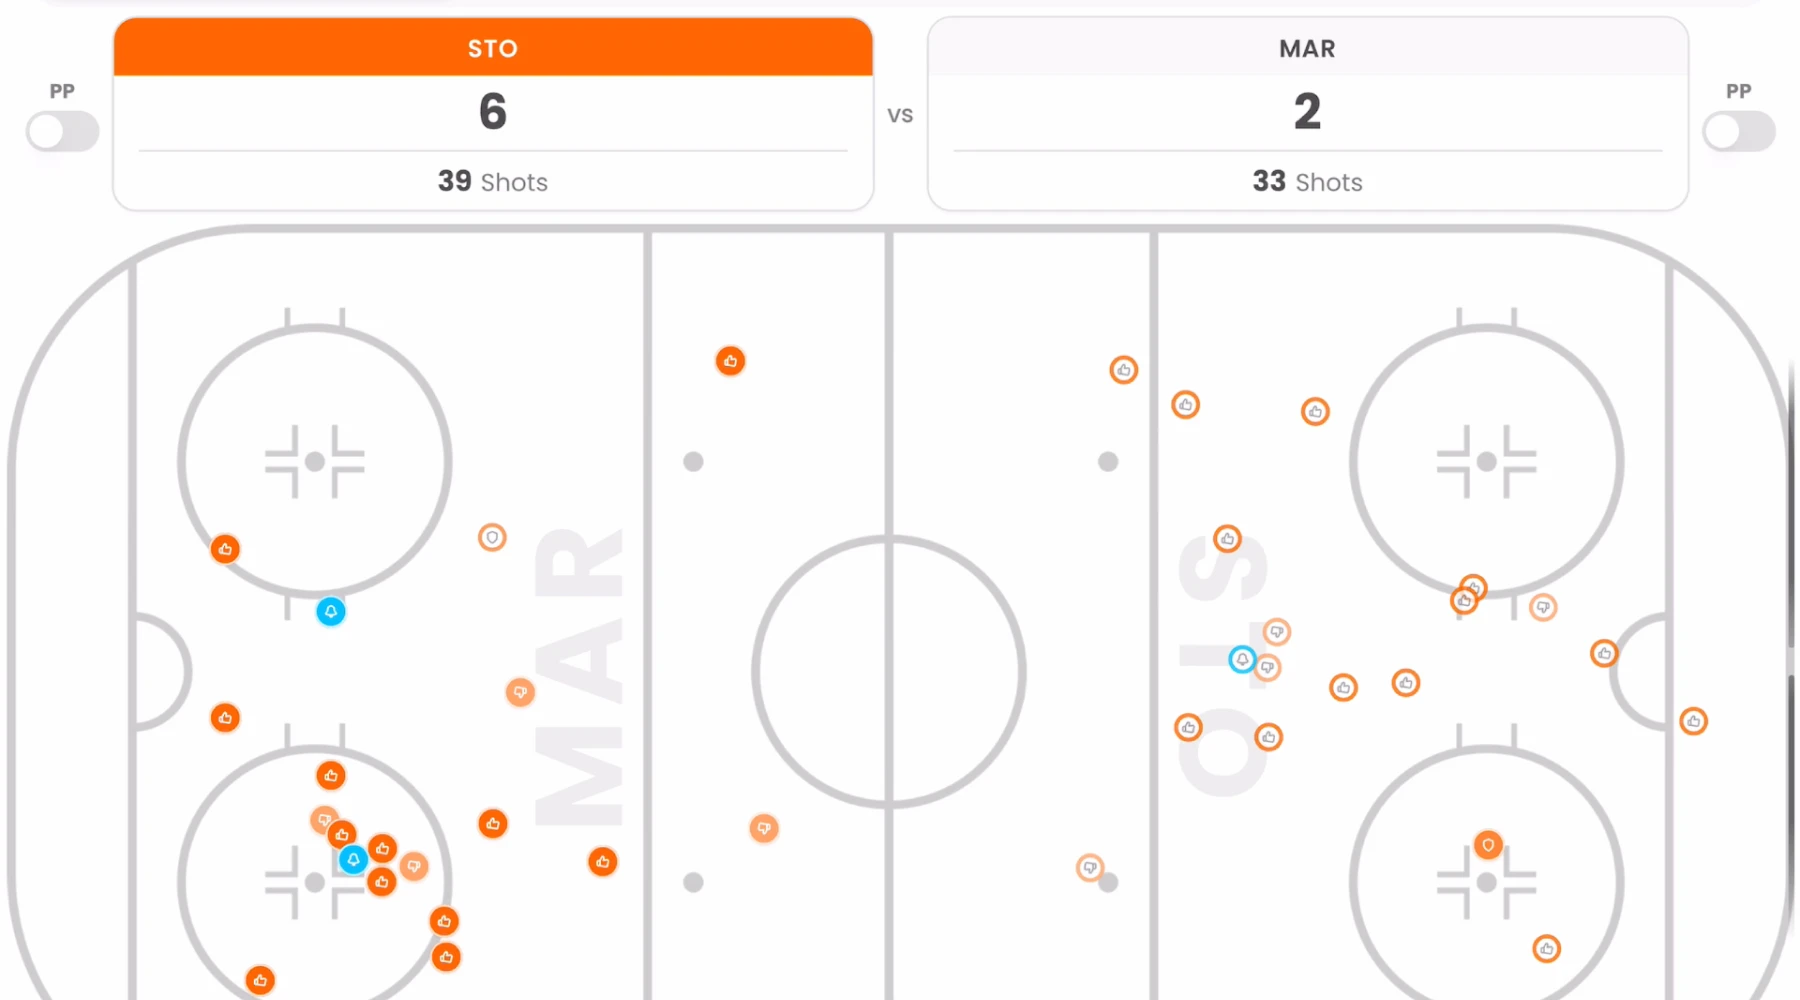
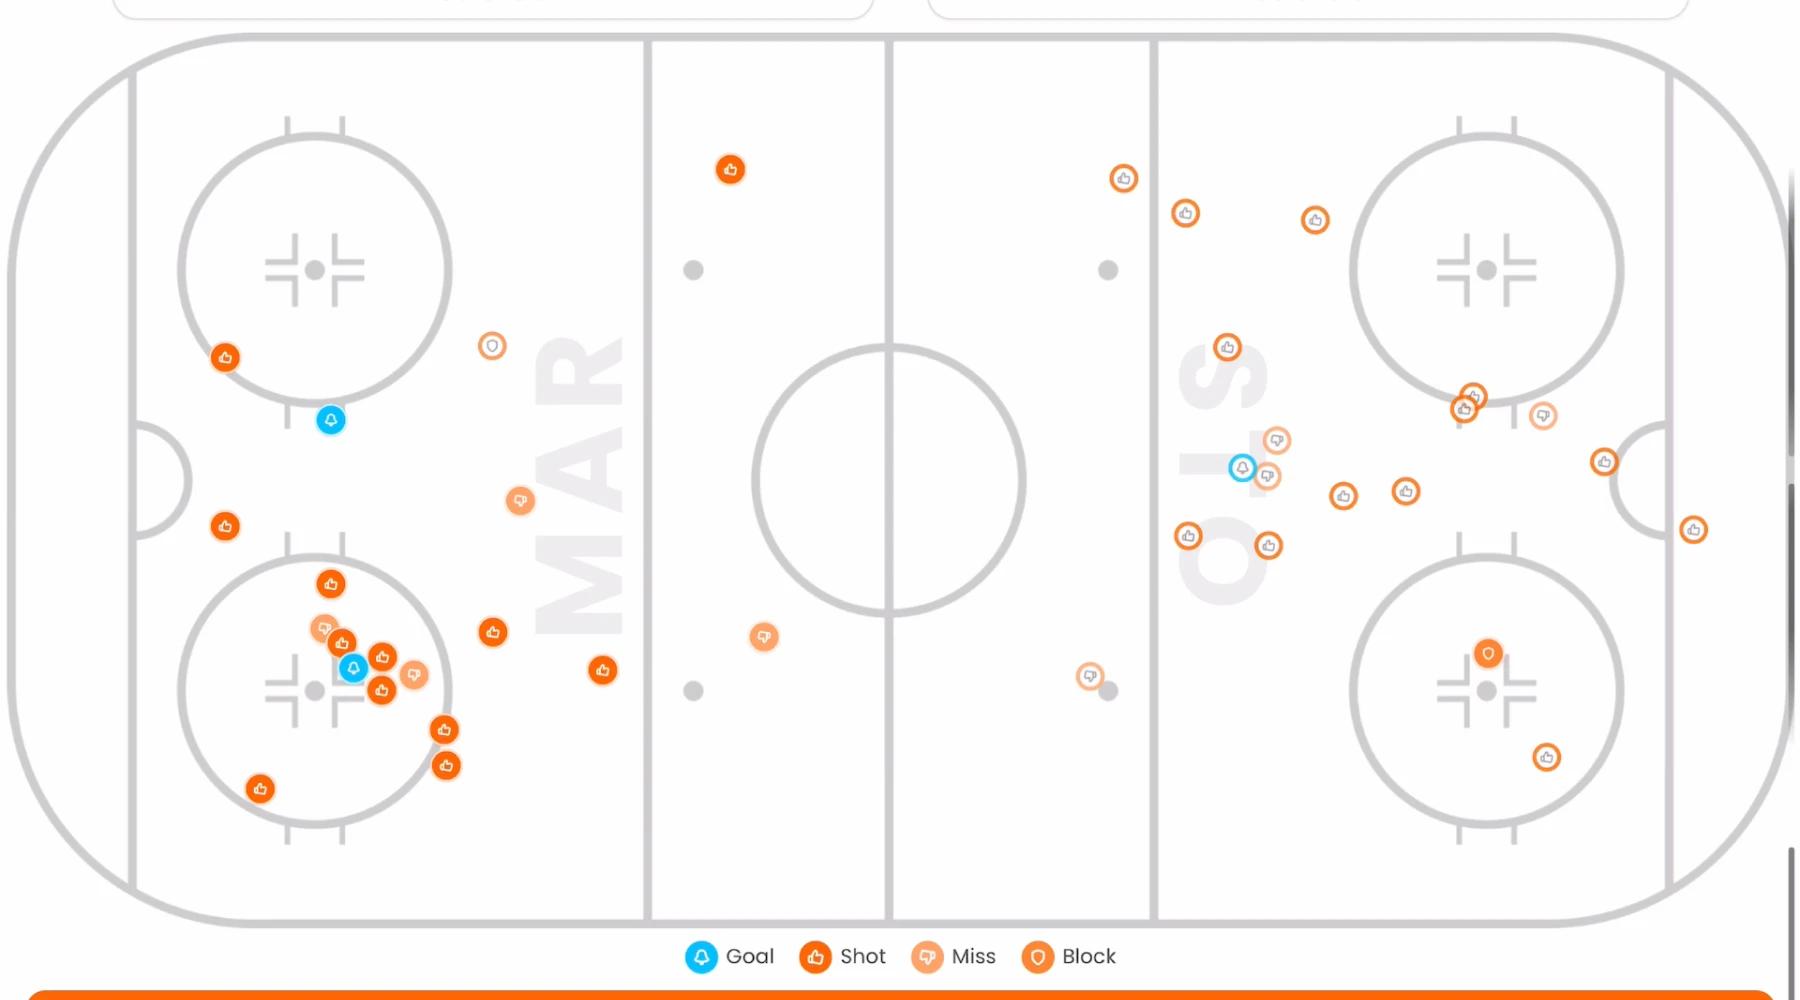
fix(features-bento): equalize row heights and tune per-card image padding
1) Slot is now a flex container with items-center so screenshots are
   vertically centred when the row stretches taller than their intrinsic
   height. With the grid's default align-items: stretch, cards in the
   same row reach the same height — extra slot space is balanced
   above/below the image instead of pinned to the top.

2) Replaces uniform px-[8%] with per-card imagePadX:
     - col-7 (Card 1): 12%
     - col-5 (Card 2): 10%
     - col-4 (Cards 3-5): 6%
     - col-12 capstone: 16%
   Wider cards take more padding, narrower cards less, so each
   screenshot reads as comparably sized regardless of column span.
   Sizes hints updated to match the new rendered widths.

diff --git a/src/components/sections/FeaturesBento.tsx b/src/components/sections/FeaturesBento.tsx
@@ -22,6 +22,10 @@ type Feature = {
   image?: StaticImageData
   imageAlt?: string
   imageSizes?: string
+  /** Tailwind class controlling horizontal padding around the image
+      slot. Wider cards take more, narrower cards less, so the rendered
+      screenshot feels comparably sized across the grid. */
+  imagePadX?: string
 }
 
 const features: Feature[] = [
@@ -34,7 +38,8 @@ const features: Feature[] = [
     className: 'md:col-span-7',
     image: featureShotMapping,
     imageAlt: 'Shot map showing colour-coded shot locations on a hockey rink',
-    imageSizes: '(min-width: 1024px) 480px, (min-width: 768px) 380px, 84vw',
+    imageSizes: '(min-width: 1024px) 410px, (min-width: 768px) 320px, 76vw',
+    imagePadX: 'px-[12%]',
   },
   {
     title: 'AI insights after every game',
@@ -45,7 +50,8 @@ const features: Feature[] = [
     className: 'md:col-span-5',
     image: featureAiInsights,
     imageAlt: 'Post-game AI coaching insights card',
-    imageSizes: '(min-width: 1024px) 340px, (min-width: 768px) 270px, 84vw',
+    imageSizes: '(min-width: 1024px) 285px, (min-width: 768px) 225px, 80vw',
+    imagePadX: 'px-[10%]',
   },
   {
     title: 'Tracks even with no signal',
@@ -56,7 +62,8 @@ const features: Feature[] = [
     className: 'md:col-span-4',
     image: featureOffline,
     imageAlt: 'Offline sync indicator with queued game data',
-    imageSizes: '(min-width: 1024px) 270px, (min-width: 768px) 210px, 84vw',
+    imageSizes: '(min-width: 1024px) 235px, (min-width: 768px) 185px, 88vw',
+    imagePadX: 'px-[6%]',
   },
   {
     title: 'Goalies, done right',
@@ -67,7 +74,8 @@ const features: Feature[] = [
     className: 'md:col-span-4',
     image: featureGoalies,
     imageAlt: 'Goalie save percentage and GAA stats card',
-    imageSizes: '(min-width: 1024px) 270px, (min-width: 768px) 210px, 84vw',
+    imageSizes: '(min-width: 1024px) 235px, (min-width: 768px) 185px, 88vw',
+    imagePadX: 'px-[6%]',
   },
   {
     title: 'Every player, on the page',
@@ -78,7 +86,8 @@ const features: Feature[] = [
     className: 'md:col-span-4',
     image: featurePlayerProfile,
     imageAlt: 'Individual player profile with stats and shot trends',
-    imageSizes: '(min-width: 1024px) 270px, (min-width: 768px) 210px, 84vw',
+    imageSizes: '(min-width: 1024px) 235px, (min-width: 768px) 185px, 88vw',
+    imagePadX: 'px-[6%]',
   },
   {
     title: 'The whole rink, in landscape',
@@ -89,7 +98,8 @@ const features: Feature[] = [
     className: 'md:col-span-12 md:p-10 lg:p-12',
     image: featureLandscape,
     imageAlt: 'Full-rink landscape view of in-game shot tracking',
-    imageSizes: '(min-width: 1024px) 830px, (min-width: 768px) 640px, 84vw',
+    imageSizes: '(min-width: 1024px) 660px, (min-width: 768px) 510px, 68vw',
+    imagePadX: 'px-[16%]',
   },
 ]
 
@@ -106,7 +116,12 @@ function FeatureTile({ feature }: { feature: Feature }) {
       </h3>
       <span aria-hidden className="brand-underline mt-3" />
       <p className="mt-4 text-brand-gray">{feature.body}</p>
-      <div className="mt-7 flex-1 px-[8%]">
+      <div
+        className={cn(
+          'mt-7 flex flex-1 items-center',
+          feature.imagePadX ?? 'px-[8%]',
+        )}
+      >
         {feature.image ? (
           <Image
             src={feature.image}
